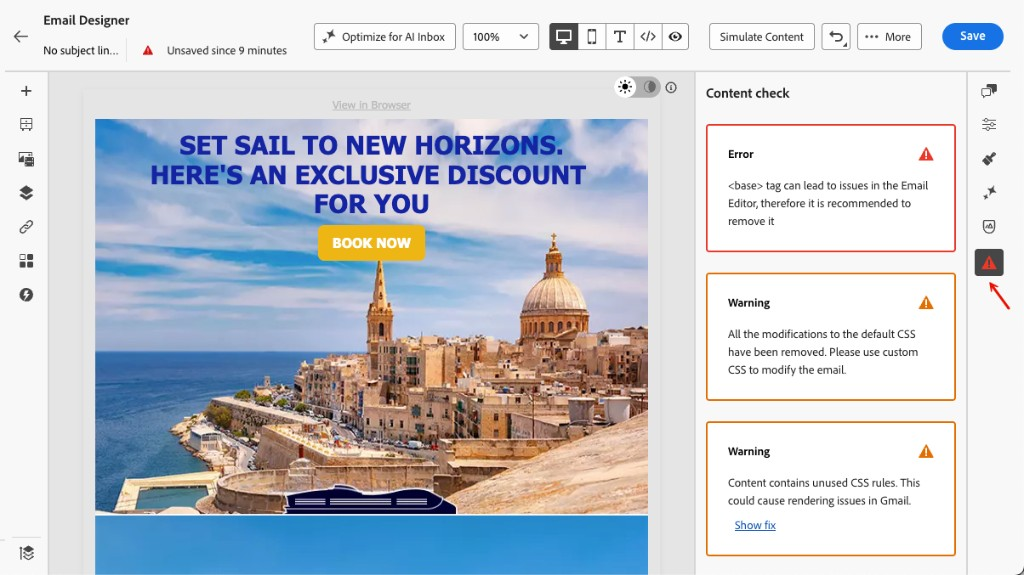
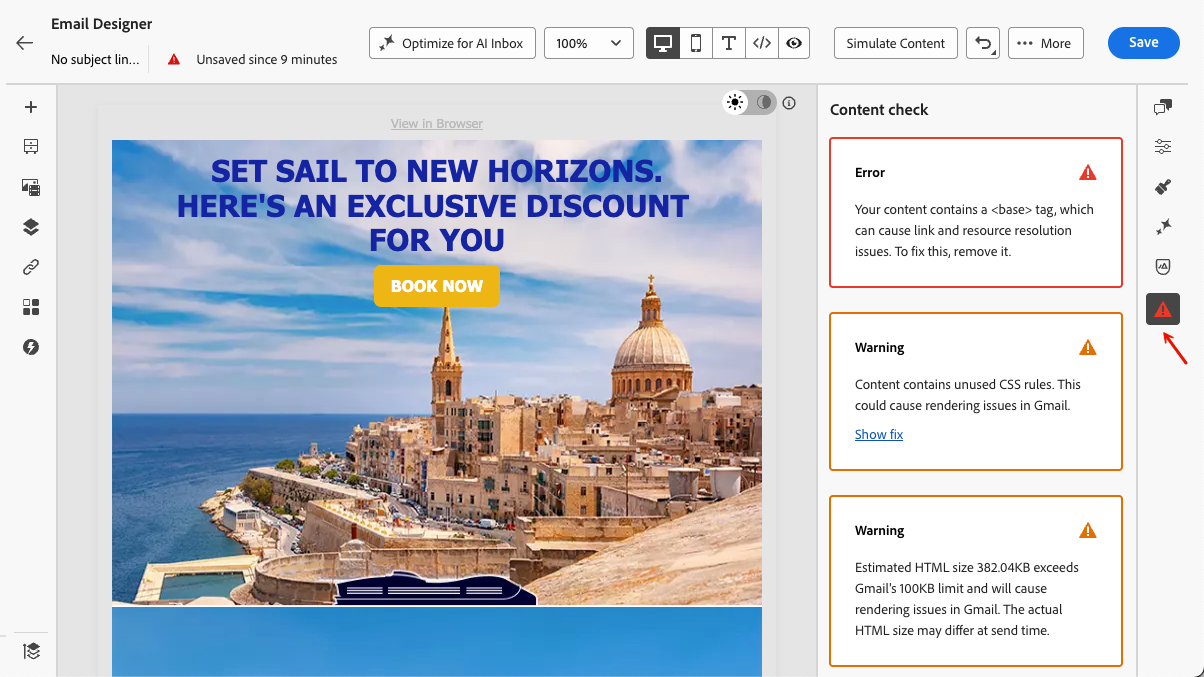
Check content updates

Changed region(s): [[0.6875, 0.1774, 0.9375, 1.0], [0.1875, 0.2365, 0.5312, 0.473], [0.9375, 0.0591, 0.9688, 0.0887]]

diff --git a/help/using/email/content-check.md b/help/using/email/content-check.md
@@ -51,6 +51,10 @@ Similary, you can click the **[!UICONTROL Show fix]** button and apply a one-cli
 
 ![Content check pane in the Email Designer with Apply fix button](assets/content-check-fix.png){width="80%"}
 
+Content checks fall into two categories. Most checks — such as unsupported HTML elements, empty divs, and HTML size — are recalculated each time you edit your email, so they always reflect your current content.
+
+The CSS size check works differently. It is calculated from the serialized content — the version of your email as it is loaded or saved — not from the live editing state in the Email Designer. CSS optimizations are applied when you save, so the saved content can differ slightly from what you see while editing. This check runs when your email is loaded and when you save. If you make edits without saving, a **[!UICONTROL Stale check]** label appears to indicate the result may no longer be accurate. Save your email to refresh the calculation.
+
 ## Fix detected issues {#fix-issues}
 
 The tables below list all possible messages and the recommended action for each. Expand the category matching the message you see in the **[!UICONTROL Content check]** pane.
@@ -74,7 +78,12 @@ The tables below list all possible messages and the recommended action for each.
 | Total CSS size is close to Gmail's 16 KB limit and could cause rendering issues if more CSS is added. | Warning | Use **[!UICONTROL Apply fix]** to remove unused CSS rules, or reduce styles before adding more content. |
 | Total CSS size for this fragment exceeds 3 KB. Combining this with other fragments could cause the total email CSS to exceed Gmail's 16 KB limit and cause rendering issues. | Warning | Simplify the CSS in this fragment to keep the combined email CSS under 16 KB. |
 | Content contains unused CSS rules. This could cause rendering issues in Gmail. | Warning | Use **[!UICONTROL Apply fix]** to automatically remove CSS rules that reference elements no longer present in the email. |
+
+<!--
+| Message | Severity | What to do |
+|---|---|---|
 | Your content has modifications to the system-generated default CSS. These changes may be overridden by future Email Designer updates. To preserve your styles, add them using the Custom CSS feature instead. | Info | Move your custom styles to [Custom CSS](custom-css.md) to ensure they are preserved across Email Designer updates. |
+-->
 
 +++
 
